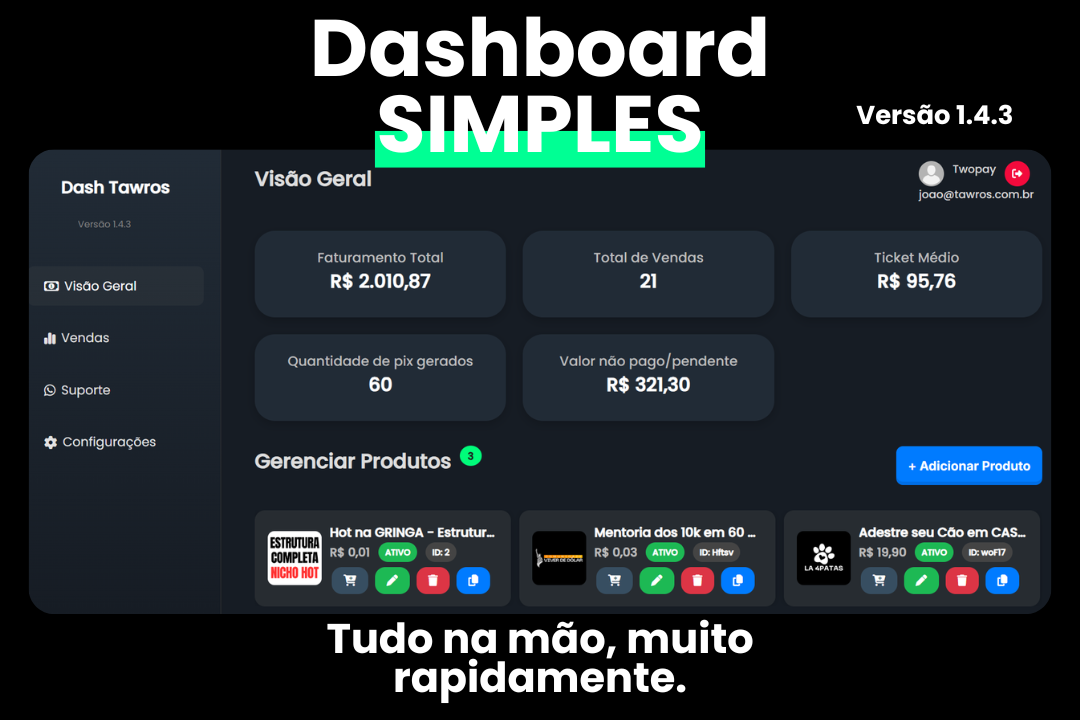
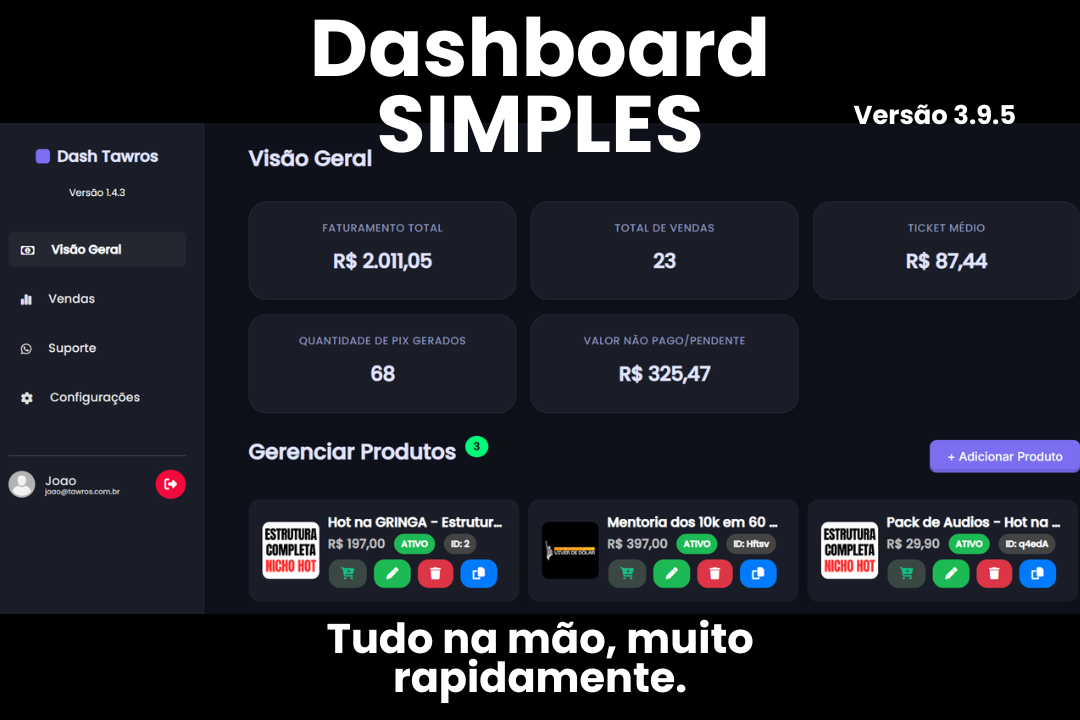
Forçando atualização

Changed region(s): [[0.0, 0.1222, 1.0, 0.8556]]

diff --git a/dashboard.js b/dashboard.js
@@ -684,7 +684,7 @@ document.addEventListener("DOMContentLoaded", () => {
                         </span>
                     </td>
                     <td class="actions">
-                        <button class="edit-btn" onclick="orderRedirect('orderbump.html?productId=${productId}&orderbumpId=${id}')">
+                        <button class="edit-btn" onclick="orderRedirect('orderbump?prod=${productId}&bump=${id}')">
                             Editar
                         </button>
                     </td>
@@ -698,7 +698,7 @@ document.addEventListener("DOMContentLoaded", () => {
                 const divBtn = document.createElement("div");
                 divBtn.className = 'no-orderbumps';
                 divBtn.innerHTML = `
-                    <button class="add-orderbump-btn" onclick="orderRedirect('orderbump.html?productId=${productId}')">
+                    <button class="add-orderbump-btn" onclick="orderRedirect('orderbump?prod=${productId}')">
                         Criar +OrderBumps
                     </button>`;
                 container.appendChild(table);
@@ -707,7 +707,7 @@ document.addEventListener("DOMContentLoaded", () => {
                 container.innerHTML = `
                 <div class="no-orderbumps">
                     <p>Nenhum orderbump encontrado para este produto.</p>
-                    <button class="add-orderbump-btn" onclick="orderRedirect('orderbump.html?productId=${productId}')">
+                    <button class="add-orderbump-btn" onclick="orderRedirect('orderbump?prod=${productId}')">
                         Criar OrderBump
                     </button>
                 </div>

diff --git a/orderbump.html b/orderbump.html
@@ -539,7 +539,7 @@
         function saveOrderbump() {
             const titulo = tituloEl.value.trim();
             const descricao = descricaoEl.value.trim();
-            const preco = parseFloat(precoEl.value);
+            const preco = parseFloat(precoEl.value.replace(',', '.'));
             const desconto = descontoEl.value.trim();
             const entrega = entregaEl.value.trim();
             const ativo = ativoEl.value === 'true';
@@ -614,8 +614,8 @@
         document.addEventListener('DOMContentLoaded', () => {
             // Obter parâmetros da URL
             const urlParams = new URLSearchParams(window.location.search);
-            currentProductId = urlParams.get('productId');
-            const orderbumpId = urlParams.get('orderbumpId');
+            currentProductId = urlParams.get('prod');
+            const orderbumpId = urlParams.get('bump');
 
             if (!currentProductId) {
                 showAlert('ID do produto não especificado', 'error');

diff --git a/dashboard.html b/dashboard.html
@@ -363,7 +363,7 @@
     <div class="supra-side" style="display: flex; width: 100vw; position: relative;">
         <div class="sidebar" id="sidebar">
             <h2 style="justify-content: center; margin: 0;">Dash Tawros</h2>
-            <p style="font-size:11px;text-align: center;margin: 0;">Versão 1.4.3</p>
+            <p style="font-size:11px;text-align: center;margin: 0;">Versão 3.9.5</p>
             <ul class="off">
                 <li>
                     <p class="nav-link active" data-page="dashboard"><i class="fa-regular fa-money-bill-1"
